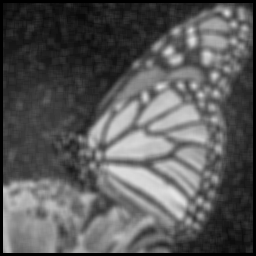
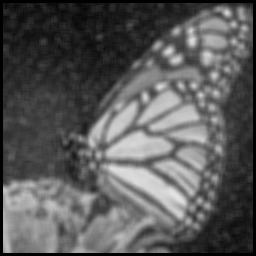
updates

diff --git a/Hw2/homework2_programming/p2_bilateral_filtering.py b/Hw2/homework2_programming/p2_bilateral_filtering.py
@@ -24,58 +24,18 @@ def bilateral_filtering(img: np.uint8, spatial_variance: float, intensity_varian
     # Tip: use zero-padding to address the black border issue.
 
     # ********************************
+    # ______________________________________________________________________________________________________________________________
 
-    # MINE ___________________________________________________________________________________________________________________________________
-    # Your code is here.
-    # sizeX, sizeY = img.shape
-    # center = kernel_size // 2
-    # padding_size = center       # Define a padding size based on the kernel size to handle borders
-    # spacial_weights, intensity_range_weights = np.zeros((kernel_size, kernel_size)), np.zeros((kernel_size, kernel_size))
-
-    # # Create a padded version of the input image
-    # img_padded = np.pad(img, ((padding_size, padding_size), (padding_size, padding_size)), mode='constant')
-
-    # # Calculate the center of the kernel
-    
-    # # Compute the spacial and intensity range weights
-    # for i in range(kernel_size):
-    #     for j in range(kernel_size):
-    #         k, l = i - center, j - center
-    #         spacial_weights[i, j] = (1 / (2 * math.pi * spatial_variance)) * math.exp(-(k ** 2 + l ** 2) / (2 * spatial_variance))
-    #         intensity_range_weights[i, j] = (1 / math.sqrt(2 * math.pi * intensity_variance)) * math.exp(-(k ** 2) / (2 * intensity_variance))
-
-    
-    # # filtering for each pixel
-    # for i in range(kernel_size // 2, sizeX - kernel_size // 2):
-    #     for j in range(kernel_size // 2, sizeY - kernel_size // 2):
-    #         # Compute the filtered pixel value using the kernel weights and neighboring pixels
-    #         img_patch = img[i - kernel_size // 2 : i + kernel_size // 2 + 1, j - kernel_size // 2 : j + kernel_size // 2 + 1]
-    #         img_filtered[i, j] = (1 / np.sum(spacial_weights * intensity_range_weights)) * np.sum(spacial_weights * intensity_range_weights * img_patch)
-
-    #___________________________________________________________________________________________________________________________________
-
-    # ********************************
-
-
-    # GOOGLE ___________________________________________________________________________________________________________________________________
-    # # Create a padded image to handle the black border issue
-    # padded_img = np.pad(img, ((kernel_size - 1, kernel_size - 1), (kernel_size - 1, kernel_size - 1)), mode='constant', constant_values=0)
-
-    # # Compute the spatial and intensity range weights of the bilateral filter
-    # spatial_weights = np.exp(-((padded_img[:, :, None] - padded_img[None, :, :]) ** 2) / (2 * spatial_variance))
-    # intensity_weights = np.exp(-((padded_img[:, :, None] - padded_img[None, :, :]) ** 2) / (2 * intensity_variance))
-
-    # # Compute the filtered output for each pixel
-    # for i in range(img.shape[0]):
-    #     for j in range(img.shape[1]):
-    #         kernel = spatial_weights[i : i + kernel_size, j : j + kernel_size] * intensity_weights[i : i + kernel_size, j : j + kernel_size]
-    #         kernel = kernel / np.sum(kernel)
-    #         img_filtered[i, j] = np.sum(kernel * padded_img[i : i + kernel_size, j : j + kernel_size])
-    #___________________________________________________________________________________________________________________________________
     sizeX, sizeY = img.shape
 
     # Define a padding size based on the kernel size to handle borders
     padding_size = kernel_size // 2
+
+    # Precompute spatial weights (depends only on spatial_variance)
+    spatial_weights = np.zeros((kernel_size, kernel_size))
+    for k in range(-padding_size, padding_size + 1):
+        for l in range(-padding_size, padding_size + 1):
+            spatial_weights[k + padding_size, l + padding_size] = math.exp(-(k ** 2 + l ** 2) / (2 * spatial_variance))
 
     # Create a padded version of the input image
     img_padded = np.pad(img, ((padding_size, padding_size), (padding_size, padding_size)), mode='constant')
@@ -89,22 +49,20 @@ def bilateral_filtering(img: np.uint8, spatial_variance: float, intensity_varian
             weighted_sum = 0.0
             sum_of_weights = 0.0
 
-            # Compute spatial and intensity weights
+            # Compute intensity weight (depends on intensity_variance)
             for x in range(i - padding_size, i + padding_size + 1):
                 for y in range(j - padding_size, j + padding_size + 1):
                     # Neighboring pixel coordinates
                     neighbor_pixel = img_padded[x, y]
 
-                    # Compute spatial and intensity differences
-                    spatial_difference = np.sqrt((i - x) ** 2 + (j - y) ** 2)
+                    # Compute intensity difference
                     intensity_difference = np.abs(current_pixel - neighbor_pixel)
 
-                    # Compute spatial and intensity weights using your original formulas
-                    spatial_weight = (1 / (2 * math.pi * spatial_variance)) * math.exp(-(spatial_difference ** 2) / (2 * spatial_variance))
+                    # Compute intensity weight using your original formula
                     intensity_weight = (1 / math.sqrt(2 * math.pi * intensity_variance)) * math.exp(-(intensity_difference ** 2) / (2 * intensity_variance))
 
-                    # Bilateral filter weight
-                    bilateral_weight = spatial_weight * intensity_weight
+                    # Bilateral filter weight (combined with spatial weight)
+                    bilateral_weight = spatial_weights[x - i + padding_size, y - j + padding_size] * intensity_weight
 
                     # Update the weighted sum and sum of weights
                     weighted_sum += neighbor_pixel * bilateral_weight
@@ -113,6 +71,7 @@ def bilateral_filtering(img: np.uint8, spatial_variance: float, intensity_varian
             # Compute the filtered pixel value
             img_filtered[i - padding_size, j - padding_size] = weighted_sum / sum_of_weights
 
+    # ______________________________________________________________________________________________________________________________
 
 
     img_filtered = img_filtered * 255

diff --git a/Hw2/homework2_programming/p3_nlm_filtering.py b/Hw2/homework2_programming/p3_nlm_filtering.py
@@ -7,12 +7,8 @@ import cv2
 import numpy as np
 import math
 
-def nlm_filtering(
-    img: np.uint8,
-    intensity_variance: float,
-    patch_size: int,
-    window_size: int,
-) -> np.uint8:
+
+def nlm_filtering(img: np.uint8, intensity_variance: float, patch_size: int, window_size: int,) -> np.uint8:
     """
     Homework 2 Part 4
     Compute the filtered image given an input image, kernel size of image patch, spatial variance, and intensity range variance
@@ -20,20 +16,89 @@ def nlm_filtering(
 
     img = img / 255
     img = img.astype("float32")
-    img_filtered = np.zeros(img.shape) # Placeholder of the filtered image
-    
+    img_filtered = np.zeros(img.shape)  # Placeholder of the filtered image
+
     # Todo: For each pixel position [i, j], you need to compute the filtered output: img_filtered[i, j] using a non-local means filter
-    # step 1: compute window_sizexwindow_size filter weights of the non-local means filter in terms of intensity_variance. 
+    # step 1: compute window_sizexwindow_size filter weights of the non-local means filter in terms of intensity_variance.
     # step 2: compute the filtered pixel img_filtered[i, j] using the obtained kernel weights and the pixel values in the search window
-    # Please see slides 30 and 31 of lecture 6. Clarification: the patch_size refers to the size of small image patches (image content in yellow, 
+    # Please see slides 30 and 31 of lecture 6. Clarification: the patch_size refers to the size of small image patches (image content in yellow,
     # red, and blue boxes in the slide 30); intensity_variance denotes sigma^2 in slide 30; the window_size is the size of the search window as illustrated in slide 31.
-    # Tip: use zero-padding to address the black border issue. 
+    # Tip: use zero-padding to address the black border issue.
 
     # ********************************
-    # Your code is here.
+    # sizeX, sizeY = img.shape
+
+    # # # Define a padding size based on the patch size to handle borders
+    # # padding_size = patch_size // 2
+
+    # # Define a padding size based on the window size to handle borders
+    # padding_size = window_size // 2 + 1
+
+    # # Create a padded version of the input image
+    # img_padded = np.pad(img, ((padding_size, padding_size), (padding_size, padding_size)), mode='constant')
+
+    # for i in range(padding_size, sizeX + padding_size):
+    #     for j in range(padding_size, sizeY + padding_size):
+    #         # Current pixel coordinates in the padded image
+    #         current_pixel = img_padded[i, j]
+
+    #         # Initialize the weighted sum and the sum of weights
+    #         weighted_sum = 0.0
+    #         sum_of_weights = 0.0
+
+    #         # Compute non-local means filter weights
+    #         for x in range(i - window_size // 2, i + window_size // 2 + 1):
+    #             for y in range(j - window_size // 2, j + window_size // 2 + 1):
+    #                 # Neighboring pixel coordinates
+    #                 neighbor_pixel = img_padded[x, y]
+
+    #                 # Compute intensity difference and non-local means filter weight
+    #                 intensity_difference = current_pixel - neighbor_pixel
+    #                 intensity_weight = math.exp(-(intensity_difference ** 2) / (2 * intensity_variance))
+
+    #                 # Update the weighted sum and sum of weights
+    #                 weighted_sum += neighbor_pixel * intensity_weight
+    #                 sum_of_weights += intensity_weight
+
+    #         # Compute the filtered pixel value
+    #         img_filtered[i - padding_size, j - padding_size] = weighted_sum / sum_of_weights
+
     # ********************************
 
-            
+    pad = patch_size // 2
+    img_pad = np.pad(img, pad, mode='constant')
+
+    for i in range(pad, img.shape[0] + pad):
+        for j in range(pad, img.shape[1] + pad):
+
+            # Extract full patch centered at (i,j)
+            patch = img_pad[i-pad:i+pad+1, j-pad:j+pad+1]
+
+            # Only compute SSD for patches fully inside the image
+            if i - window_size//2 >= pad and i + window_size//2 + 1 < img.shape[0] + pad:
+                if j - window_size//2 >= pad and j + window_size//2 + 1 < img.shape[1] + pad:
+
+                    weights = []
+                    for x in range(i-window_size//2, i+window_size//2+1):
+                        for y in range(j-window_size//2, j+window_size//2+1):
+
+                            # Extract full patch centered at (x,y)
+                            patch_neighbor = img_pad[x-pad:x+pad+1, y-pad:y+pad+1]
+
+                            # Compute SSD between full patches
+                            ssd = np.sum((patch - patch_neighbor)**2)
+
+                            # Compute weight
+                            weight = np.exp(-ssd / (2 * intensity_variance))
+
+                            weights.append(weight)
+
+                    # Normalize weights and compute weighted average
+                    weights = np.array(weights) / np.sum(weights)
+                    neighbors = img_pad[i-window_size//2:i+window_size//2+1,
+                                        j-window_size//2:j+window_size//2+1]
+                    img_filtered[i-pad, j-pad] = np.sum(weights * neighbors)
+
     img_filtered = img_filtered * 255
     img_filtered = np.uint8(img_filtered)
     return img_filtered

diff --git a/Hw2/homework2_programming/p1_linear_filtering.py b/Hw2/homework2_programming/p1_linear_filtering.py
@@ -18,6 +18,7 @@ def linear_local_filtering(img: np.uint8, filter_weights: np.ndarray,) -> np.uin
     img_filtered = np.zeros(img.shape) # Placeholder of the filtered image
     kernel_size = filter_weights.shape[0] # filter kernel size
     sizeX, sizeY = img.shape
+    center = kernel_size // 2
 
     # filtering for each pixel
     for i in range(kernel_size // 2, sizeX - kernel_size // 2):
@@ -29,7 +30,7 @@ def linear_local_filtering(img: np.uint8, filter_weights: np.ndarray,) -> np.uin
 
             # ********************************
             # Compute the filtered pixel value using the kernel weights and neighboring pixels
-            img_patch = img[i - kernel_size // 2 : i + kernel_size // 2 + 1, j - kernel_size // 2 : j + kernel_size // 2 + 1]
+            img_patch = img[i - center:i + center + 1, j - center: j + center + 1]
             img_filtered[i, j] = np.sum(filter_weights * img_patch)
             # ********************************
 
